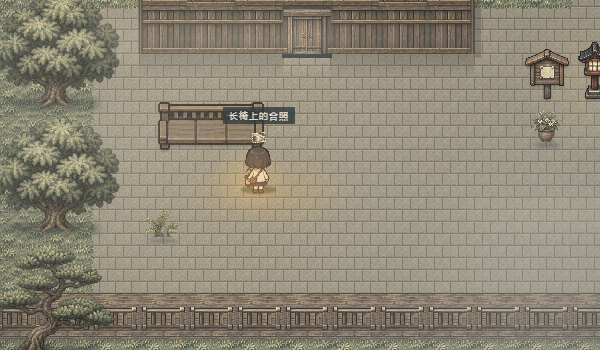
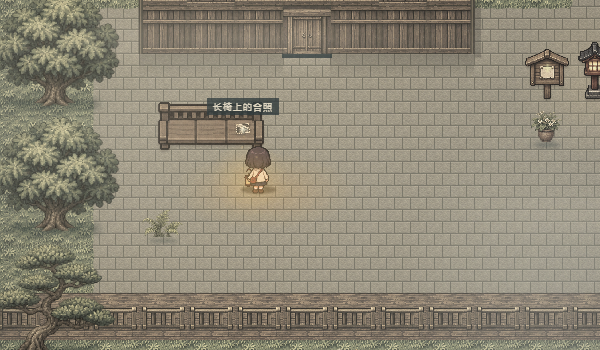
Hide completed pickup glints and anchor the photo inside the bench

Changed region(s): [[0.33, 0.2571, 0.51, 0.4286]]

diff --git a/world.js b/world.js
@@ -213,7 +213,7 @@
         const node=document.createElement('canvas');node.className='scene-prop';node.dataset.prop=prop.id;
         node.width=prop.grid?prop.grid.w*view.tile:prop.atlas==='items'?(view.tile===32?12:16):256;node.height=prop.grid?prop.grid.h*view.tile:node.width;
         if(prop.phase)node.classList.add('memory-prop');
-        if(prop.atlas==='items')node.style.transform='translate(-50%,-100%)';
+        if(prop.atlas==='items')node.style.transform=prop.surfaceOn?'translate(-50%,-50%)':'translate(-50%,-100%)';
         if(prop.grid){node.classList.add('grid-furniture');node.dataset.footprint=prop.grid.w+'x'+prop.grid.d;node.dataset.cellX=prop.grid.x;node.dataset.cellY=prop.grid.y;node.style.transform='none';}
         else node.style.setProperty('--prop-scale',prop.size);
         const pose=root.KiriMaps.attachmentPose(map.id,prop);
@@ -239,7 +239,7 @@
         if(prop.grid||frame.nativeItem)drawGridFrame(pen,frame,0,0,node.width,node.height);else{const sw=source.naturalWidth/columns,sh=source.naturalHeight/rows;pen.drawImage(source,(sprite%columns)*sw+4,Math.floor(sprite/columns)*sh+4,sw-8,sh-8,0,0,256,256);}item.painted=key;
       }
       if(prop.grid){const g=prop.grid;node.style.left=Math.round((g.x-view.x)*view.tile)+'px';node.style.top=Math.round((g.top-view.y)*view.tile)+'px';node.style.width=g.w*view.tile+'px';node.style.height=g.h*view.tile+'px';return;}
-      const pose=root.KiriMaps.attachmentPose(map.id,prop),p=pose?project({x:pose.x-.5,y:pose.bottomY-.92}):project(prop);
+      const pose=root.KiriMaps.attachmentPose(map.id,prop),surface=root.KiriMaps.surfacePose(map.id,prop),p=surface?project(surface):pose?project({x:pose.x-.5,y:pose.bottomY-.92}):project(prop);
       node.style.left=p.x+'px';node.style.top=p.y+'px';
       if(thread){const a=project({x:pose.x-.5,y:pose.threadY-.92});thread.style.left=a.x+'px';thread.style.top=a.y+'px';thread.style.height=Math.max(0,(pose.bottomY-prop.size*.5-pose.threadY)*view.tile)+'px';}
     });
@@ -320,7 +320,7 @@
         pen.drawImage(foliage,p.sprite%4*sw,Math.floor(p.sprite/4)*sh,sw,sh,(p.x+.5)*size-extent*.5,(p.y+.92)*size-extent*.96,extent,extent);
       }}));
     }
-    map.props.filter(p=>root.KiriCore.inPhase(progress,p.phase)).forEach(p=>{const pose=root.KiriMaps.attachmentPose(zone,p),g=p.grid;layers.push({z:pose?depth(pose.building.frontY-.92,1):depth(root.KiriMaps.propGroundY(zone,p),p.surfaceOn?1:g?0:-1),draw:()=>{const frame=propFrame(p,solved,progress),{source,columns,rows,sprite}=frame;if(!source.complete||!source.naturalWidth)return;if(g){drawGridFrame(pen,frame,g.x*size,g.top*size,g.w*size,g.h*size);return;}if(frame.nativeItem){const extent=p.size*size;drawGridFrame(pen,frame,(p.x+.5)*size-extent/2,(p.y+.92)*size-extent,extent,extent);return;}const sw=source.naturalWidth/columns,sh=source.naturalHeight/rows,extent=p.size*size,x=pose?pose.x:p.x+.5,y=pose?pose.bottomY:p.y+.92;pen.drawImage(source,sprite%columns*sw+4,Math.floor(sprite/columns)*sh+4,sw-8,sh-8,x*size-extent*.5,y*size-extent*.985,extent,extent);}});});
+    map.props.filter(p=>root.KiriCore.inPhase(progress,p.phase)).forEach(p=>{const pose=root.KiriMaps.attachmentPose(zone,p),g=p.grid;layers.push({z:pose?depth(pose.building.frontY-.92,1):depth(root.KiriMaps.propGroundY(zone,p),p.surfaceOn?1:g?0:-1),draw:()=>{const frame=propFrame(p,solved,progress),{source,columns,rows,sprite}=frame;if(!source.complete||!source.naturalWidth)return;if(g){drawGridFrame(pen,frame,g.x*size,g.top*size,g.w*size,g.h*size);return;}if(frame.nativeItem){const extent=p.size*size,surface=root.KiriMaps.surfacePose(zone,p),x=(surface?surface.x+.5:p.x+.5)*size,y=(surface?surface.y+.92:p.y+.92)*size;drawGridFrame(pen,frame,x-extent/2,y-(surface?extent/2:extent),extent,extent);return;}const sw=source.naturalWidth/columns,sh=source.naturalHeight/rows,extent=p.size*size,x=pose?pose.x:p.x+.5,y=pose?pose.bottomY:p.y+.92;pen.drawImage(source,sprite%columns*sw+4,Math.floor(sprite/columns)*sh+4,sw-8,sh-8,x*size-extent*.5,y*size-extent*.985,extent,extent);}});});
     layers.sort((a,b)=>a.z-b.z).forEach(layer=>layer.draw());
   }
   root.KiriRenderer = { view, resize, draw, project, unproject, thumbnail, depth, assetsReady:()=>[image,foliage,mountedImage,worldProps,stoneGrain,stationKit,craneImage,explorationImage,explorationCleared,...Object.values(nativeFurniture),...Object.values(nativeItems),floorGrains,woodGrain,tatamiImage].every(i=>i.complete&&i.naturalWidth>0)&&!!root.KiriLighting?.assetsReady() };

diff --git a/maps.js b/maps.js
@@ -32,7 +32,7 @@
   m.house(3,4,7,4,19,'station-office');m.put(11,8,43,true);
   m.prop('photo-bench',0,4,9,2.7,[[-1,0],[0,0],[1,0]]);
   Object.assign(m.props.at(-1),furniture.catalog.waitingBench,{kind:'waitingBench',grid:{x:3,y:9,w:3,d:1,h:1,top:9}});delete m.props.at(-1).size;
-  m.prop('memory-photo',8,5,9,.32);Object.assign(m.props.at(-1),{atlas:'items',phase:'echo',surfaceOn:'photo-bench'});
+  m.prop('memory-photo',8,5,9,.32);Object.assign(m.props.at(-1),{atlas:'items',phase:'echo',surfaceOn:'photo-bench',surfaceAnchor:[.72,.56]});
   m.prop('rail-buffer',3,11,5,1.3,[[0,0]]);Object.assign(m.props.at(-1),{atlas:'station'});
   [[12,8],[27,8],[21,16],[25,16]].forEach(([x,y])=>m.put(x,y,40,true));m.put(20,10,2,true);
   m.rect(0,13,32,1,58,true);m.rect(22,14,3,6,2);
@@ -158,6 +158,7 @@
   function frontCell(player){const [dx,dy]=FACING[player.facing]||FACING[0];return {x:player.x+dx,y:player.y+dy};}
   function interactionCells(zone,object){
     const prop=maps[zone].props.find(p=>p.id===object.support),g=prop?.grid;
+    if(prop?.surfaceOn){const p=surfacePose(zone,prop);if(p)return [{x:Math.floor(p.x+.5),y:Math.floor(p.y+.92)}];}
     if(g){const cells=[];for(let y=g.d?g.y:g.y+g.h-1;y<(g.d?g.y+g.d:g.y+g.h);y++)for(let x=g.x;x<g.x+g.w;x++)cells.push({x,y});return cells;}
     return prop?.cells||[{x:object.x,y:object.y}];
   }
@@ -183,10 +184,12 @@
   }
   function focusPoint(zone,object){
     const prop=maps[zone].props.find(p=>p.id===object.support),pose=prop&&attachmentPose(zone,prop);
+    const surface=prop&&surfacePose(zone,prop);if(surface)return surface;
     if(pose)return {x:pose.x-.5,y:pose.bottomY-.92-prop.size*.45};
     if(prop?.grid){const g=prop.grid,f=prop.focus||[.5,.4];return {x:g.x+g.w*f[0]-.5,y:g.top+g.h*f[1]-.92};}
     return {x:object.x+(object.focusOffset?.x||0),y:object.y+(object.focusOffset?.y||0)};
   }
   function propGroundY(zone,prop){const parent=prop.surfaceOn&&maps[zone].props.find(p=>p.id===prop.surfaceOn),g=prop.grid||parent?.grid;return g?g.y+(g.d||1)-.92:prop.y;}
-  return { LAYOUT_VERSION,maps,walkable,findPath,approach,nearestFloor,attachmentPose,focusPoint,frontCell,interactionCells,canInvestigate,propGroundY };
+  function surfacePose(zone,prop){const parent=prop.surfaceOn&&maps[zone].props.find(p=>p.id===prop.surfaceOn),g=parent?.grid;if(!g)return null;const [x,y]=prop.surfaceAnchor||[.5,.5];return {x:g.x+g.w*x-.5,y:g.top+g.h*y-.92};}
+  return { LAYOUT_VERSION,maps,walkable,findPath,approach,nearestFloor,attachmentPose,focusPoint,frontCell,interactionCells,canInvestigate,propGroundY,surfacePose };
 });

diff --git a/game.js b/game.js
@@ -111,10 +111,11 @@
       let solved = false;
       if (obj.action.startsWith('puzzle-')) solved = state.solved.includes(obj.action.slice(7));
       el.classList.toggle('solved', solved);
-      el.classList.toggle('collected', state.memories.includes(obj.action));
+      const collected=state.memories.includes(obj.action)||KiriExploration.isComplete(state,obj);
+      el.classList.toggle('collected', collected);
       el.classList.toggle('read', state.clues.includes(obj.action));
       const marker = solved ? '✓' : (obj.character !== undefined ? '···' : obj.mark === 'memory' ? '✧' : obj.mark === 'exit' ? '↗' : obj.mark === 'puzzle' ? '◇' : '·');
-      el.innerHTML = `${obj.character !== undefined ? `<div class="actor"><div class="actor-shadow"></div><div class="sprite" style="background-position:${obj.character * 100 / 3}% 0%"></div></div>` : ''}<span class="object-marker"><span>${marker}</span></span><span class="object-label">${obj.name}</span>${obj.label ? `<span class="object-detail">${obj.label}</span>` : ''}`;
+      el.innerHTML = `${obj.character !== undefined ? `<div class="actor"><div class="actor-shadow"></div><div class="sprite" style="background-position:${obj.character * 100 / 3}% 0%"></div></div>` : ''}<span class="object-marker"${collected?' hidden':''}><span>${marker}</span></span><span class="object-label">${obj.name}</span>${obj.label ? `<span class="object-detail">${obj.label}</span>` : ''}`;
       el.addEventListener('click', e => { e.stopPropagation(); approach(obj); }); container.appendChild(el);
     });
     nearest = null; updatePlayer(false); updateNearest();

diff --git a/exploration.js b/exploration.js
@@ -4,6 +4,20 @@
   const C=root.KiriCore,D=root.KiriData;
   const itemNames={guideLamp:'引灯',lockerKey:'维修箱黄铜钥匙',dryMatches:'油纸包好的防潮火柴',redThread:'旧日的红线',waterJar:'一罐清水',ricePaste:'调好的米糊',oldParcel:'寄给制灯铺的旧包裹',routeCard:'婆婆标过的送灯路线图'};
   function inventory(state){return state.items.map(id=>id==='guideLamp'?`引灯（${state.flags.lantern?'已点亮，可按 Q 照见回忆':'熄灭，尚缺火种'}）`:itemNames[id]);}
+  function isComplete(state,obj){
+    const f=state.flags;
+    switch(obj.action||obj.id){
+      case 'old-lantern':return !!f.lampFound;
+      case 'parcel':return !!(f.parcelTaken||f.parcelDelivered);
+      case 'toolbox':return !!(f.matchesFound||f.lantern);
+      case 'basket':return !!(f.threadTaken||f.helpedNagi);
+      case 'lighting-table':return !!f.lantern;
+      case 'workbench':return !!f.helpedNagi;
+      case 'paste-table':return C.hasItem(state,'ricePaste')||!!f.helpedNagi;
+      case 'well':return C.hasItem(state,'waterJar')||C.hasItem(state,'ricePaste')||!!f.helpedNagi;
+      default:return false;
+    }
+  }
   function objectName(state,obj){
     const names={
       'old-lantern':state.flags.lampFound?'已经取空的引灯柜':'柜中的旧引灯',
@@ -95,5 +109,5 @@
     }
     return false;
   }
-  root.KiriExploration={run,inventory,tasks,objectName,itemNames};
+  root.KiriExploration={run,inventory,tasks,objectName,itemNames,isComplete};
 })(globalThis);

diff --git a/docs/QA.md b/docs/QA.md
@@ -4,7 +4,7 @@
 
 ## 核心规则
 
-`npm test`：39 项检查通过，其中 31 项覆盖核心规则、朝向调查、多格家具、回忆素材、背包道具条件、隐藏成就、布局及存档恢复，8 项覆盖移动和转向。
+`npm test`：40 项检查通过，其中 32 项覆盖核心规则、朝向调查、多格家具、回忆素材、背包道具条件、领取后的光点、隐藏成就、布局及存档恢复，8 项覆盖移动和转向。
 
 验证了章节先决条件、禁止跳关、错误答案不改变进度、四种机关答案、联动齿轮可解性、回忆重复调查、四种结局条件、存档序列化、损坏存档恢复，以及格子地图中的墙体、书架、水面碰撞。逐一检查了六处区域与两处室内的每个人物、机关、回忆、线索与出口，确保均存在从出生点出发、不穿过障碍的相邻格路径。
 
@@ -121,3 +121,11 @@
 `--bag-preview` 检查电脑 B 键、320 / 390 / 844 像素背包布局、手机实际触摸使用道具、直接室内点亮不会误解锁隐藏成就、CG 回看和系统减少动态效果。`--chapter-preview` 保存神社、书库和钟楼的新地面。规则、素材、预览及完整提示词见 [本轮完善记录](EXPLORATION-REFINEMENT.md)。
 
 `--mobile-controls-only` 再次通过从未拿灯到背包点灯、触摸切换双时空和刷新续玩的实际流程，并确认未点灯时现世空长椅仍可调查。`--memory-preview` 保存现世 / 回忆对照，验证照片层级高于椅面、闪光高于照片，纸鹤与挂线在现世真正隐藏，回忆中显示。普通现世物件、回忆物件和缩略图共享同一时空筛选规则。
+
+## 已领取物品的十字光点
+
+完成提示改为读取领取与任务进度，不依赖道具是否还留在背包中。引灯柜、包裹架、维修箱和针线篮取完后，十字元素直接隐藏；已经点灯、修灯、备好清水或米糊的相关工作点同步停止提示。空家具仍可调查，未领取物件继续闪动。
+
+新增规则检查覆盖旧存档及材料已消耗的状态。`node tests/browser.cjs --pickup-glints-only` 实际取走引灯和包裹，确认未领取物件仍亮、已领取物件隐藏，重访空柜、刷新续玩、焦点与减少动态效果下均不会恢复光点。预览为 `preview-cleared-pickups.png`；浏览器错误为 0。
+
+照片改为通过长椅的座面锚点定位，中心位于右侧座板内部。照片图像、闪光和调查格共享同一位置；地图缩略图同步。`--memory-preview` 检查照片四边都在座板安全范围内、闪光中心和照片中心重合，并保存 `preview-photo-detail.png` 对照。

diff --git a/README.md b/README.md
@@ -45,7 +45,7 @@ npm start
 
 主角具有四方向的真实行走帧，会交替迈步，停下后恢复站姿。连续按住多个方向时，优先响应最近按下的方向；转向会平顺接在当前一步之后。点击寻路途中可以用方向键接管移动。
 
-可调查物件带有细小的闪动十字光点，面向目标或悬停时显示名称。E 与手机“调查”只检查人物正前方一格；多格家具使用完整占地，点击后会自动走到可调查的边缘并转向。照片是长椅上的独立小物件，只在引灯开启后的回忆中出现；屋檐纸鹤及挂线同样仅在回忆中显现。已找回的回忆和已解开的机关会停止闪动。
+可调查物件带有细小的闪动十字光点，面向目标或悬停时显示名称。E 与手机“调查”只检查人物正前方一格；多格家具使用完整占地，点击后会自动走到可调查的边缘并转向。照片是长椅上的独立小物件，只在引灯开启后的回忆中出现；屋檐纸鹤及挂线同样仅在回忆中显现。道具取走、工作台完成后会隐藏十字光点，重访和读档也不会重新点亮；空家具仍可调查查看说明。已找回的回忆和已解开的机关同样停止闪动。
 
 取得引灯后，主角会提着木框纸灯，四个朝向具有不同的手部位置，行走时灯笼轻轻摆动，暖光落在脚边。回忆采用褪色旧照片般的色调、分层薄雾、细小颗粒和缓慢上升的光尘，灯周围会散开雾气。切换时光纹轻轻向外扩散。关闭漂浮光点仍保留照明，系统“减少动态效果”会关闭摆动与扩散动画。
 

diff --git a/docs/EXPLORATION-REFINEMENT.md b/docs/EXPLORATION-REFINEMENT.md
@@ -6,7 +6,7 @@
 
 键盘 E 和手机“调查”只检查人物正前方的一格。不会从身旁、身后自动挑一个距离最近的对象。多格家具由同一组占地矩形定义碰撞和调查范围，2 × 2 工作台的四格都可从相邻且正对的边缘调查，墙面窗户按其底沿格识别。
 
-点击光点时，寻路先选择可到达的调查面，到达后自动朝向该物件；距离相同时，优先接近闪光点所在的一侧。标签只在当前朝向可以调查时高亮。照片拥有独立物件与调查格，闪光对齐小照片，不再借用长椅中心当作调查位置。独立小物通过 surfaceOn 跟随椅面的遮挡层级，照片和闪光均位于长椅上方。
+点击光点时，寻路先选择可到达的调查面，到达后自动朝向该物件；距离相同时，优先接近闪光点所在的一侧。标签只在当前朝向可以调查时高亮。照片拥有独立物件与调查格，闪光对齐小照片，不再借用长椅中心当作调查位置。独立小物通过 surfaceOn 跟随椅面的遮挡层级，并以 surfaceAnchor 固定在右侧座板内部；照片、闪光及调查格共享同一座面位置。
 
 共享规则：`KiriMaps.frontCell`、`interactionCells`、`canInvestigate` 和 `approach`。自动走过出口的场景切换保留，不要求额外按键。
 
